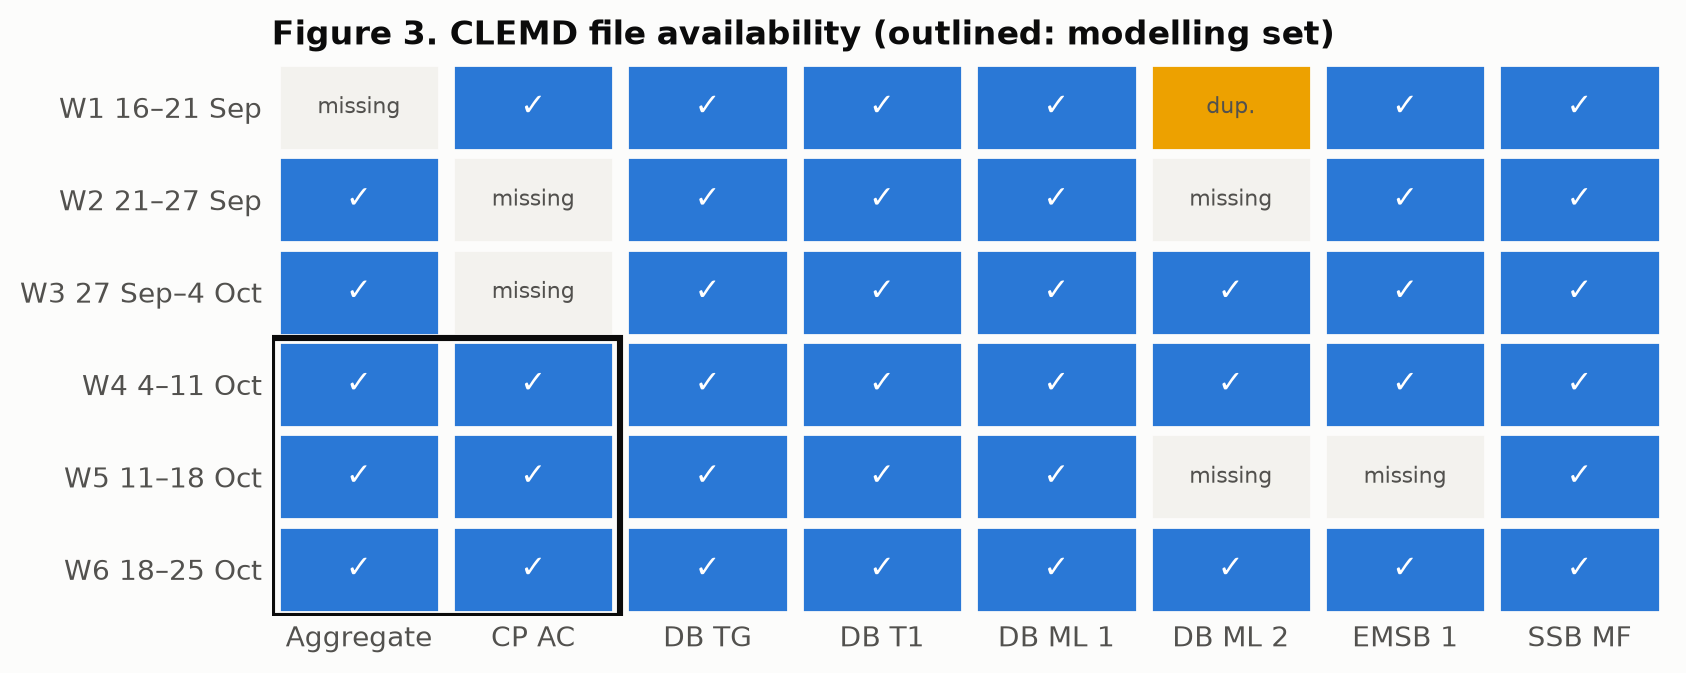
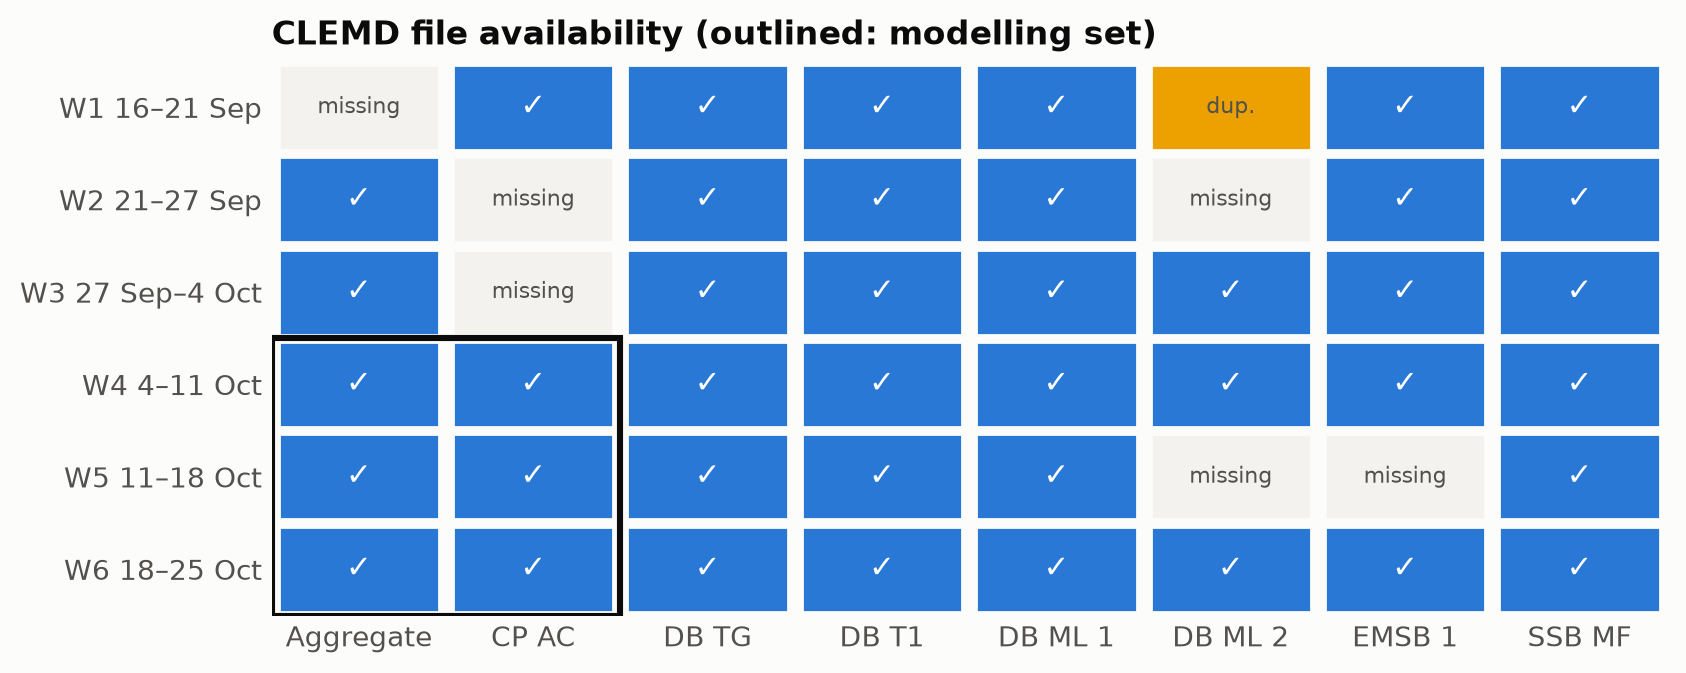
Update README and RESULTS documentation, refactor evaluation scripts, and enhance figure generation process

Changed region(s): [[0.1542, 0.0312, 0.8019, 0.0936]]

diff --git a/make_figures.py b/make_figures.py
@@ -1,9 +1,9 @@
-"""Proposal figures + headline stats from data/processed/clemd_1min.parquet.
+"""Problem/data figures (EDA, workflow, split) + headline stats, from data/processed/clemd_1min.parquet.
 
-Run prepare_data.py first. Writes figures/proposal/*.png and figures/stats.json.
+Run after the rest of the pipeline. Writes figures/proposal/*.png and figures/proposal/stats.json.
+Figure titles carry no numbers: the report's captions number them.
 """
 import json
-from pathlib import Path
 
 import matplotlib
 matplotlib.use("Agg")
@@ -14,15 +14,17 @@ import pandas as pd
 from matplotlib.colors import LinearSegmentedColormap
 from matplotlib.patches import FancyBboxPatch
 
-ROOT = Path(__file__).resolve().parent
+from evaluate import AC, GRID, INK2, LIGHT, SURF
+from features import DATA, ROOT, WORK_END, WORK_START
+from scenarios import PR_RANGE, PV_COLOR as PV, PV_MWP, pv_profile
+
 FIG = ROOT / "figures" / "proposal"
 FIG.mkdir(parents=True, exist_ok=True)
-df = pd.read_parquet(ROOT / "data" / "processed" / "clemd_1min.parquet")
-df = df[df["week"] >= 4]  # proposal figures use the A/C weeks only
+df = pd.read_parquet(DATA)
+df = df[df["week"] >= 4]  # these figures use the A/C weeks only
 
-# Colour follows the entity in every figure (dataviz reference palette, validated)
-AC, LIGHT, PV = "#2a78d6", "#eb6834", "#1baf7a"
-OTHER, INK, INK2, GRID, SURF = "#c3c2b7", "#0b0b0b", "#52514e", "#e6e5e0", "#fcfcfb"
+# Colour follows the entity in every figure (same palette as the results figures)
+OTHER, INK = "#c3c2b7", "#0b0b0b"
 plt.rcParams.update({
     "figure.facecolor": SURF, "axes.facecolor": SURF, "savefig.facecolor": SURF,
     "axes.edgecolor": INK2, "axes.labelcolor": INK2, "xtick.color": INK2, "ytick.color": INK2,
@@ -31,7 +33,6 @@ plt.rcParams.update({
     "font.size": 10, "axes.titlesize": 12, "axes.titleweight": "bold", "axes.titlelocation": "left",
     "lines.linewidth": 2, "legend.frameon": False, "savefig.dpi": 200, "savefig.bbox": "tight",
 })
-WORK_START, WORK_END = 8, 17  # assumed Malaysian public-sector office hours, weekdays
 
 
 def save(fig, name):
@@ -47,7 +48,7 @@ q15 = df[["agg_p_kw", "ac_kw", "light_kw", "other_kw"]].resample("15min").mean()
 peak = q15[q15["agg_p_kw"] >= q15["agg_p_kw"].quantile(0.95)]
 stats = {}
 
-# ---- Fig 1: workflow -------------------------------------------------------
+# ---- workflow -------------------------------------------------------
 fig, ax = plt.subplots(figsize=(13, 3.2))
 ax.axis("off"); ax.set_xlim(0, 12.9); ax.set_ylim(0, 3.2)
 steps = [("Problem", "Which loads set\nthe peak?"), ("Data", "CLEMD main meter\n+ sub-meters (1 s)"),
@@ -62,10 +63,10 @@ for i, (head, body) in enumerate(steps):
     ax.text(x + 0.8, 1.35, body, ha="center", va="center", fontsize=8.5, color=INK2)
     if i < len(steps) - 1:
         ax.annotate("", (x + 1.82, 1.6), (x + 1.62, 1.6), arrowprops=dict(arrowstyle="-|>", color=INK2, lw=1.5))
-ax.set_title("Figure 1. Project workflow")
+ax.set_title("Project workflow")
 save(fig, "fig01_workflow.png")
 
-# ---- Fig 2: data availability ----------------------------------------------
+# ---- data availability ----------------------------------------------
 circuits = ["Aggregate", "CP AC", "DB TG", "DB T1", "DB ML 1", "DB ML 2", "EMSB 1", "SSB MF"]
 avail = np.array([  # 1 ok, 0 missing, 0.5 unusable duplicate (from DATASET_NOTES inventory)
     [0, 1, 1, 1, 1, 0.5, 1, 1], [1, 0, 1, 1, 1, 0, 1, 1], [1, 0, 1, 1, 1, 1, 1, 1],
@@ -87,10 +88,10 @@ ax.set_yticks(np.arange(6) + 0.5, weeks)
 ax.tick_params(length=0)
 for s in ax.spines.values():
     s.set_visible(False)
-ax.set_title("Figure 3. CLEMD file availability (outlined: modelling set)")
+ax.set_title("CLEMD file availability (outlined: modelling set)")
 save(fig, "fig03_data_availability.png")
 
-# ---- Fig 3: week 6 time series ---------------------------------------------
+# ---- week 6 time series ---------------------------------------------
 w6 = q15.loc["2023-10-19":"2023-10-24"]
 fig, ax = plt.subplots(figsize=(11, 4))
 ax.plot(w6.index, w6["agg_p_kw"], color=INK2, lw=1.5, label="Whole building (main meter)")
@@ -100,10 +101,10 @@ ax.set_ylabel("Real power, 15-min mean (kW)")
 ax.legend(loc="upper right", ncol=3, fontsize=8.5)
 ax.set_ylim(0, w6["agg_p_kw"].max() * 1.18)
 ax.xaxis.set_major_formatter(mdates.DateFormatter("%a %d %b"))
-ax.set_title("Figure 4. Building, A/C and lighting load (19–24 Oct 2023)")
+ax.set_title("Building, A/C and lighting load (19–24 Oct 2023)")
 save(fig, "fig04_week6_timeseries.png")
 
-# ---- Fig 4: average daily profile, weekday vs weekend ----------------------
+# ---- average daily profile, weekday vs weekend ----------------------
 fig, axes = plt.subplots(1, 2, figsize=(11, 4), sharey=True)
 for ax, (wk, title) in zip(axes, [(False, "Weekdays"), (True, "Weekends")]):
     prof = df[df["weekend"] == wk].groupby("hour")[["ac_kw", "light_kw", "other_kw"]].mean()
@@ -117,11 +118,11 @@ for ax, (wk, title) in zip(axes, [(False, "Weekdays"), (True, "Weekends")]):
 axes[0].set_ylabel("Mean real power (kW)")
 axes[1].legend(loc="upper right", fontsize=8.5)
 axes[0].text(WORK_START + 0.2, axes[0].get_ylim()[1] * 0.97, "office hours\n08:00-17:00", fontsize=8, color=INK2, va="top")
-fig.suptitle("Figure 5. Average daily load profile", x=0.01, ha="left",
+fig.suptitle("Average daily load profile", x=0.01, ha="left",
              fontweight="bold", fontsize=12)
 save(fig, "fig05_daily_profile.png")
 
-# ---- Fig 5: share of energy vs share of peak --------------------------------
+# ---- share of energy vs share of peak --------------------------------
 def shares(frame):
     tot = frame["agg_p_kw"].sum()
     return [frame[c].sum() / tot * 100 for c in ("ac_kw", "light_kw", "other_kw")]
@@ -145,10 +146,10 @@ ax.set_yticks([0, 1], labels); ax.invert_yaxis()
 ax.set_xlim(0, 100); ax.set_xlabel("% of whole-building load")
 ax.legend(loc="upper center", bbox_to_anchor=(0.5, -0.28), ncol=3, fontsize=9)
 ax.grid(axis="y", visible=False)
-ax.set_title("Figure 2. A/C share grows at peak demand")
+ax.set_title("A/C share grows at peak demand")
 save(fig, "fig02_energy_vs_peak_share.png")
 
-# ---- Fig 6: A/C heatmap day x hour -----------------------------------------
+# ---- A/C heatmap day x hour -----------------------------------------
 hm = df.groupby([df.index.date, "hour"])["ac_kw"].mean().unstack().dropna(how="all")
 hm = hm.loc[[d for d in hm.index if hm.loc[d].notna().sum() >= 20]]
 fig, ax = plt.subplots(figsize=(10, 5.6))
@@ -162,10 +163,10 @@ for i, d in enumerate(hm.index):
     if pd.Timestamp(d).day_of_week >= 5:
         ax.text(23.7, i, "weekend", fontsize=7, color=INK2, va="center")
 cb = fig.colorbar(im, ax=ax, pad=0.09); cb.set_label("Mean A/C power (kW)"); cb.outline.set_visible(False)
-ax.set_title("Figure 6. Hourly A/C load for each day")
+ax.set_title("Hourly A/C load for each day")
 save(fig, "fig06_ac_heatmap.png")
 
-# ---- Fig 7: main meter vs A/C (why ML is needed) ---------------------------
+# ---- main meter vs A/C (why ML is needed) ---------------------------
 s = q15.sample(min(1500, len(q15)), random_state=0)
 hrs = s.index.hour
 fig, ax = plt.subplots(figsize=(7.5, 5))
@@ -178,10 +179,10 @@ ax.set_xlabel("Whole-building power, main meter (kW)"); ax.set_ylabel("A/C power
 ax.legend(loc="upper left", fontsize=9)
 ax.text(0.98, 0.04, f"Overall Pearson r = {r:.2f}, but at 40–60 kW total\nthe A/C load ranges from about 4 to 35 kW",
         transform=ax.transAxes, ha="right", fontsize=9, color=INK2)
-ax.set_title("Figure 8. Total building power versus A/C power")
+ax.set_title("Total building power versus A/C power")
 save(fig, "fig08_agg_vs_ac.png")
 
-# ---- Fig 8: candidate feature correlation ----------------------------------
+# ---- candidate feature correlation ----------------------------------
 feat = {
     "Total real power": "agg_p_kw", "Total reactive power": "agg_q_kvar", "Total apparent power": "agg_s_kva",
     "Within-minute power std": "agg_p_kw_std", "PF phase 1": "agg_PF1", "PF phase 2": "agg_PF2",
@@ -198,18 +199,11 @@ for i, v in enumerate(corr.values):
 ax.axvline(0, color=INK2, lw=1)
 ax.set_xlim(-1.1, 1.1); ax.set_xlabel("Pearson correlation with A/C power (1-min data)")
 ax.grid(axis="y", visible=False)
-ax.set_title("Figure 7. Main-meter signals correlated with A/C power")
+ax.set_title("Main-meter signals correlated with A/C power")
 save(fig, "fig07_feature_correlation.png")
 
-# ---- Fig 9: A/C profile vs modelled UTP rooftop PV --------------------------
-nasa_path = ROOT / "data" / "external" / "nasa_power_utp_oct2023_utc.csv"
-header_end = nasa_path.read_text().splitlines().index("-END HEADER-")
-nasa = pd.read_csv(nasa_path, skiprows=header_end + 1).rename(columns={"ALLSKY_SFC_SW_DWN": "GHI"})
-nasa.index = pd.to_datetime(nasa[["YEAR", "MO", "DY", "HR"]].astype(int).rename(
-    columns={"YEAR": "year", "MO": "month", "DY": "day", "HR": "hour"})) + pd.Timedelta(hours=8)  # UTC -> MYT
-nasa = nasa.loc["2023-10-04":"2023-10-24"]
-PR = 0.78  # assumed performance ratio (scenario parameter; sensitivity 0.75-0.80)
-pv_mw = (7.4 * nasa["GHI"] / 1000 * PR).groupby(nasa.index.hour).mean()
+# ---- A/C profile vs modelled UTP rooftop PV --------------------------
+pv_mw = PV_MWP * pv_profile() / 1000 * PR_RANGE[1]  # mid performance ratio (0.78)
 ac_prof = df[~df["weekend"]].groupby("hour")["ac_kw"].mean()
 pv_hours = pv_mw[pv_mw > 0.1 * pv_mw.max()].index
 ac_hourly = df["ac_kw"].resample("1h").mean().dropna()
@@ -227,10 +221,10 @@ ax.set_ylim(0, 112); ax.set_xlim(0, 23)
 ax.set_xticks(range(0, 24, 2), [f"{h:02d}" for h in range(0, 24, 2)]); ax.set_xlabel("Hour of day (Malaysia time)")
 ax.set_ylabel("% of own daily maximum")
 ax.legend(loc="upper left", fontsize=8.5)
-ax.set_title("Figure 10. Weekday A/C demand versus modelled rooftop solar")
+ax.set_title("Weekday A/C demand versus modelled rooftop solar")
 save(fig, "fig10_ac_vs_solar.png")
 
-# ---- Fig 10: chronological split -------------------------------------------
+# ---- chronological split -------------------------------------------
 fig, ax = plt.subplots(figsize=(11, 2.6))
 daily = df["agg_p_kw"].resample("1h").mean()
 ax.plot(daily.index, daily, color=INK2, lw=1)
@@ -241,38 +235,8 @@ for wk, col, lab in [(4, AC, "Train"), (5, AC, "Train"), (6, LIGHT, "Test")]:
             f"{lab}: week {wk}", ha="center", fontsize=9, weight="bold")
 ax.set_ylim(0, daily.max() * 1.18); ax.set_ylabel("Building kW (hourly)"); ax.set_xlabel("Date (CLEMD recording, October 2023)")
 ax.xaxis.set_major_formatter(mdates.DateFormatter("%d %b"))
-ax.set_title("Figure 9. Chronological train/test split")
+ax.set_title("Chronological train/test split (A/C target; lighting also trains on weeks 2-3)")
 save(fig, "fig09_split.png")
-
-# ---- Fig 11: work plan (weeks from proposal submission, 19 Oct 2026) -------
-WEEKS_FROM = ["Before\n19 Oct", "19 Oct", "26 Oct", "2 Nov", "9 Nov", "16 Nov", "23 Nov"]  # week starts
-TASKS = [  # (label, first week index, last week index, done); 0 = before submission
-    ("Data download, cleaning, EDA", 0, 0, True),
-    ("Proposal and figures", 0, 0, True),
-    ("Feature engineering", 1, 1, False),
-    ("Baselines + lighting pipeline", 1, 1, False),
-    ("RF / XGBoost / LightGBM tuning", 2, 2, False),
-    ("Model freeze, test on CLEMD wk 6", 3, 3, False),
-    ("Peak-window eval + SHAP", 3, 3, False),
-    ("Clustering + UTP scenarios", 3, 4, False),
-    ("Final report + code", 4, 4, False),
-    ("Presentation", 5, 6, False),
-]
-MILESTONES = [(1, "Proposal\n19 Oct"), (3, "Model freeze"), (5, "Report*"), (7, "Presentation*")]
-fig, ax = plt.subplots(figsize=(10, 4.4))
-for i, (lab, a, b, done) in enumerate(TASKS):
-    ax.barh(i, b - a + 1, left=a, height=0.55, color=OTHER if done else INK2, edgecolor=SURF, lw=2)
-    if done:
-        ax.text(b + 1.1, i, "done", va="center", fontsize=8, color=INK2)
-for x, lab in MILESTONES:
-    ax.axvline(x, color=INK, lw=1, ls=":")
-    ax.text(x, -1.1, lab, ha="center", fontsize=8, weight="bold")
-ax.set_yticks(range(len(TASKS)), [t[0] for t in TASKS]); ax.invert_yaxis()
-ax.set_ylim(len(TASKS) - 0.4, -1.9)
-ax.set_xticks(np.arange(0.5, 7), WEEKS_FROM, fontsize=8.5); ax.set_xlim(0, 7.3)
-ax.grid(axis="y", visible=False); ax.set_xlabel("Week starting (2026).  * provisional: deadline not yet announced")
-ax.set_title("Figure 11. Work plan (grey = complete)")
-save(fig, "fig11_workplan.png")
 
 # ---- headline numbers -------------------------------------------------------
 stats.update({

diff --git a/scenarios.py b/scenarios.py
@@ -14,7 +14,7 @@ import numpy as np
 import pandas as pd
 
 from evaluate import AC, FIG, INK2, LIGHT
-from features import RESULTS, ROOT
+from features import RESULTS, ROOT, TEST_WEEK
 
 # --- scenario assumptions (all stated in the report) -----------------------------
 RM_PER_KW_MONTH = (89.27, 97.06)  # TNB MV demand charge (capacity + network), standard / ToU, refs [7, 8]
@@ -64,7 +64,7 @@ def main():
     est = p[p["ac_pred_kw"].notna()]
     q = est[["agg_p_kw", "ac_pred_kw", "ac_kw", "light_kw", "light_pred_kw", "week"]].resample("15min").mean()
     q = q.dropna(subset=["agg_p_kw", "ac_pred_kw"])
-    w6 = q[q["week"] == 6]
+    w6 = q[q["week"] == TEST_WEEK]
     out = {"basis": "frozen-model A/C estimates on unseen weeks 2, 3, 6 "
                     f"({q.index.normalize().nunique()} days); week 6 checked against the sub-meter"}
 
@@ -134,7 +134,7 @@ def main():
         off = ~((t.day_of_week < 5) & (t.hour >= start) & (t.hour < end))
         ac_kwh_day = est.loc[off, "ac_pred_kw"].sum() / 60 / days
         light_kwh_day = est.loc[off, "light_kw"].sum() / 60 / days
-        w = est["week"] == 6
+        w = est["week"] == TEST_WEEK
         ac_meas_day = est.loc[off & w, "ac_kw"].sum() / 60 / est[w].index.normalize().nunique()
         ac_est_w6_day = est.loc[off & w, "ac_pred_kw"].sum() / 60 / est[w].index.normalize().nunique()
         saved_kwh_yr = 365 * (AFTER_CUT["ac"] * ac_kwh_day + AFTER_CUT["light"] * light_kwh_day)

diff --git a/evaluate.py b/evaluate.py
@@ -14,7 +14,7 @@ import matplotlib.pyplot as plt
 import numpy as np
 import pandas as pd
 
-from features import RESULTS, ROOT, TARGETS, build, load
+from features import RESULTS, ROOT, TARGETS, TEST_WEEK, build, load
 from train import MODELS, scores
 
 FIG = ROOT / "figures" / "results"
@@ -72,7 +72,7 @@ def main():
     rows, preds = [], {}
     for target, col in TARGETS.items():
         train = df["week"].isin(TRAIN_WEEKS[target]) & df[col].notna()
-        test = df["week"] == 6
+        test = df["week"] == TEST_WEEK
         for model in MODELS:
             est = make(target, model).fit(X[train], df.loc[train, col])
             pred = pd.Series(est.predict(X[test]), index=X.index[test])
@@ -100,7 +100,7 @@ def main():
     pd.DataFrame(rob).to_csv(RESULTS / "robustness_w4_to_w5.csv", index=False)
 
     # error breakdown for the frozen A/C model on week 6
-    w6 = out[out["week"] == 6].copy()
+    w6 = out[out["week"] == TEST_WEEK].copy()
     w6["abs_err"] = (w6["ac_pred_kw"] - w6["ac_kw"]).abs()
     w6["hour"] = w6.index.hour
     w6["day_type"] = np.where(w6.index.day_of_week >= 5, "weekend", "weekday")

diff --git a/explain.py b/explain.py
@@ -4,7 +4,7 @@ A/C (LightGBM): global SHAP, SHAP summed by feature group, grouped permutation i
 and a local SHAP explanation of the week's highest-demand 15-min window.
 Lighting (Ridge): standardised coefficients.
 Writes results/shap_*.csv, results/permutation_importance_groups.csv, results/ridge_light_coefficients.csv
-and figures/results/shap_*.png, permutation_importance.png.
+and figures/results/shap_*.png, importance_by_group.png.
 """
 import matplotlib
 matplotlib.use("Agg")
@@ -14,7 +14,7 @@ import pandas as pd
 import shap
 
 from evaluate import AC, FIG, INK2, TRAIN_WEEKS, frozen, full_table
-from features import RESULTS, build, load
+from features import RESULTS, TEST_WEEK, build, load
 
 N_REPEATS = 5
 
@@ -24,7 +24,7 @@ def main():
     _, groups = build(load().head(100))  # feature -> group map
     group = pd.Series(groups)
     train = df["week"].isin(TRAIN_WEEKS["ac"]) & df["ac_kw"].notna()
-    test = df["week"] == 6
+    test = df["week"] == TEST_WEEK
     model = frozen("ac").fit(X[train], df.loc[train, "ac_kw"])
     Xt, yt = X[test], df.loc[test, "ac_kw"]
 

diff --git a/README.md b/README.md
@@ -6,6 +6,8 @@ solar-timing and tCO₂e scenarios for UTP (Energy Security, SDG 7).
 
 ## Setup
 
+Python 3.11 (tested on 3.11.17, Linux/WSL2). Exact package versions are pinned in `requirements.txt`.
+
 ```bash
 uv venv .venv && uv pip install -r requirements.txt     # or: python -m venv .venv && pip install -r requirements.txt
 ```
@@ -19,7 +21,11 @@ data/external/nasa_power_utp_oct2023_utc.csv           NASA POWER hourly, UTP (4
 
 ## Pipeline
 
-Run everything with `./run_all.sh` (~12 min), or one step with `.venv/bin/python <script>.py`.
+Run everything with `./run_all.sh` (~12 min; `PY=python ./run_all.sh` to use another interpreter),
+or one step with `.venv/bin/python <script>.py`. Steps must run in this order: each reads the previous
+step's output. Every script ends with `assert` self-checks, so a clean run with no traceback means the
+outputs are consistent. All randomness is seeded (`random_state=0`, `default_rng(0)`), so a rerun
+regenerates the same `results/` numbers.
 
 | Step | Script | Output |
 |---|---|---|
@@ -30,7 +36,7 @@ Run everything with `./run_all.sh` (~12 min), or one step with `.venv/bin/python
 | 5. SHAP + permutation importance | `explain.py` | `results/shap_*.csv`, `results/permutation_importance_groups.csv` |
 | 6. k-means operating modes, after-hours energy | `cluster.py` | `results/cluster_*.csv` |
 | 7. UTP scenarios (kW, RM, solar, tCO₂e) | `scenarios.py` | `results/scenarios.json` |
-| Proposal figures | `make_figures.py` | `figures/proposal/` |
+| 8. Problem/data figures (EDA, workflow, split) + headline stats | `make_figures.py` | `figures/proposal/` |
 
 Figures for steps 4–7 go to `figures/results/`. **Findings: see [RESULTS.md](RESULTS.md).**
 

diff --git a/RESULTS.md b/RESULTS.md
@@ -1,7 +1,8 @@
 # Results
 
 All numbers below are produced by the scripts in this repo (`./run_all.sh`) and stored in `results/`.
-Figures are in `figures/results/` (new) and `figures/proposal/` (proposal figures, unchanged).
+Figures are in `figures/results/` (model results) and `figures/proposal/` (problem and data figures).
+Figure titles carry no numbers; number them in the report captions.
 
 **Integrity of the test.** The model choice, features and search space were frozen and committed
 (commit `9e5fc5e`, record in `results/freeze.json`) before week 6 was ever loaded. Week 6 was then
@@ -84,7 +85,7 @@ Silhouette picks **k = 2** (0.74; k = 3: 0.61).
 | 1: non-working day | 12 | 2 | 268 | 31.7 / 40.2 | 46.1 |
 
 - The two "weekdays" in the non-working mode are Fri 22 Sep and **Thu 28 Sep 2023, which appears to be the
-  Maulidur Rasul public holiday** (verify). The main meter alone identifies non-working days.
+  Maulidur Rasul public holiday** (cite the official 2023 holiday list in the report). The main meter alone identifies non-working days.
 - Sensitivity, k = 3: a third "light day" mode (375 kWh/day) contains Fri 22 Sep, Mon 25 Sep and Fri 29 Sep,
   the days around that holiday, matching the proposal's expectation of light days.
 - Non-working days still use ~32 kWh of A/C and ~46 kWh of lighting/sockets per day. Overnight (00–06) A/C
